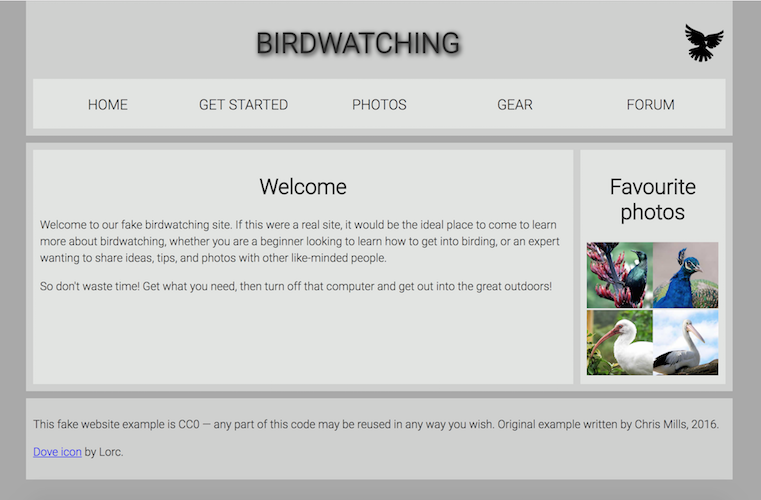
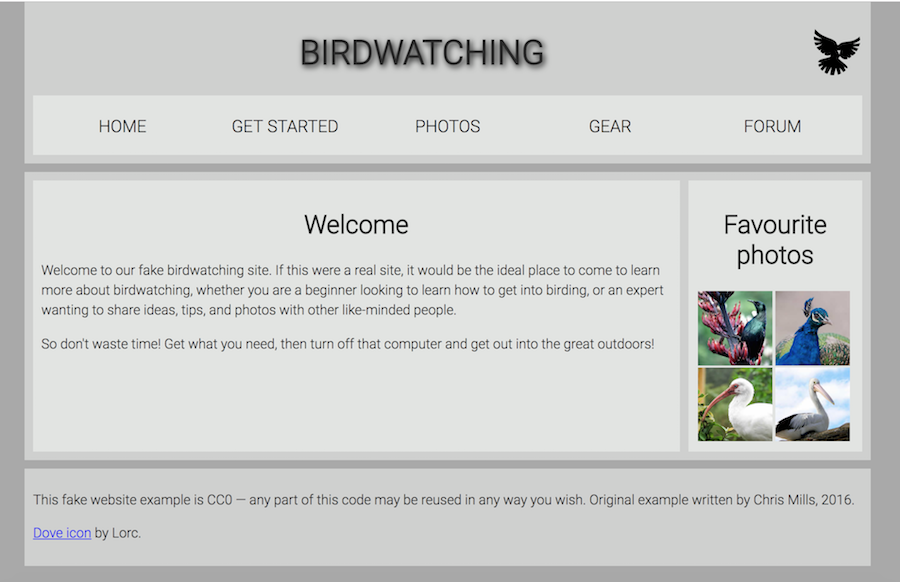
updated files

diff --git a/assets/css/style.css b/assets/css/style.css
@@ -126,7 +126,8 @@ aside {
 aside a {
   display: block;
   float: left;
-  width: 50%;
+  width: 47%;
+  margin:0 2px;
 }
 
 aside img {
